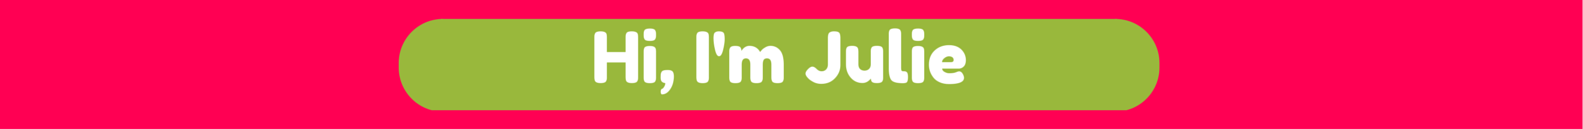
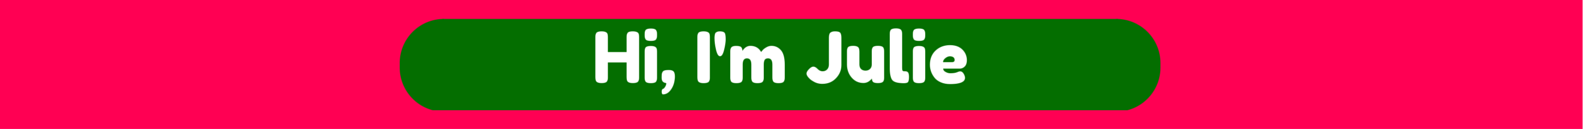
styling

Changed region(s): [[0.2476, 0.124, 0.7429, 0.8682]]

diff --git a/app/assets/stylesheets/my_styles.scss b/app/assets/stylesheets/my_styles.scss
@@ -49,11 +49,31 @@ h3.thanks {
   text-align: center;
 }
 
+h3.idea {
+  font-family: 'Comfortaa', cursive;
+  font-size: 32px;
+  color: #FF0054;
+  text-align: center;
+}
+
+h5.small_heading {
+  font-family: 'Comfortaa', cursive;
+  font-size: 18px;
+  color: #056E00;
+  text-align: center;
+}
+
 p.strong-cursive {
   font-family: 'Indie Flower', cursive;
   font-size: 48px;
   color: #FF0054;
   text-align: center;
+}
+
+p.signature {
+  font-family: 'Indie Flower', cursive;
+  font-size: 48px;
+  color: #FF0054;
 }
 
 img.name_banner {
@@ -82,9 +102,9 @@ p#long {
 }
 
 h2.heading {
-  font-family: 'Indie Flower', cursive;
+  font-family: 'Comfortaa', cursive;
   font-size: 48px;
-  color: orange;
+  color: #6961FF;
   text-align: center;
 }
 
@@ -97,9 +117,28 @@ h2 {
 h2#story {
   font-family: 'Oxygen', sans-serif;
   font-size: 22px;
-  color: orange;
+  color: #FF0054;
   text-align: center;
+  letter-spacing: 1.5px;
+  line-height: 125%;
   border-bottom: 1px solid #B9DB89;
+  margin-bottom: 25px;
+}
+
+p.small-text {
+  font-family: 'Comfortaa', cursive;
+  font-size: 14px;
+  padding: 20px;
+  color: #6961FF;
+  float: right;
+}
+
+img.img-center {
+  vertical-align: middle;
+}
+
+.img-for-small {
+  float: left;
 }
 
 h3.recent {
@@ -182,7 +221,9 @@ p.front-text {
 }
 
 .comment-wrapper {
-  border: 1px solid #B9DB89;
+  border: 1px solid #056E00;
+  padding: 5px;
+  margin-bottom: 10px;
 }
 
 .rating-wrapper {
@@ -207,4 +248,42 @@ color: #FFFFFF;
 .bottom_front {
   margin-top: 50px;
   margin-bottom: 50px;
+}
+
+.photo_me {
+  margin-bottom: 50px;
+}
+
+.row_space {
+  margin-bottom: 50px;
+}
+
+.mini_course_sidebar {
+  border: 2px solid #FF0054;
+  border-radius: 25px;
+  margin-bottom: 10px;
+}
+
+.comments {
+  margin-top: 50px;
+}
+
+.comment_header {
+  color: #6961FF !important;
+  font-family: 'Oxygen', sans-serif;
+  letter-spacing: 2px;
+  font-weight: 700;
+}
+
+.p_normal {
+  color: #FF0054 !important;
+  font-family: 'Oxygen', sans-serif;
+  letter-spacing: 2px;
+}
+
+.p_heading {
+  color: #FF0054 !important;
+  font-family: 'Oxygen', sans-serif;
+  letter-spacing: 2px;
+  font-weight: 900;
 }
